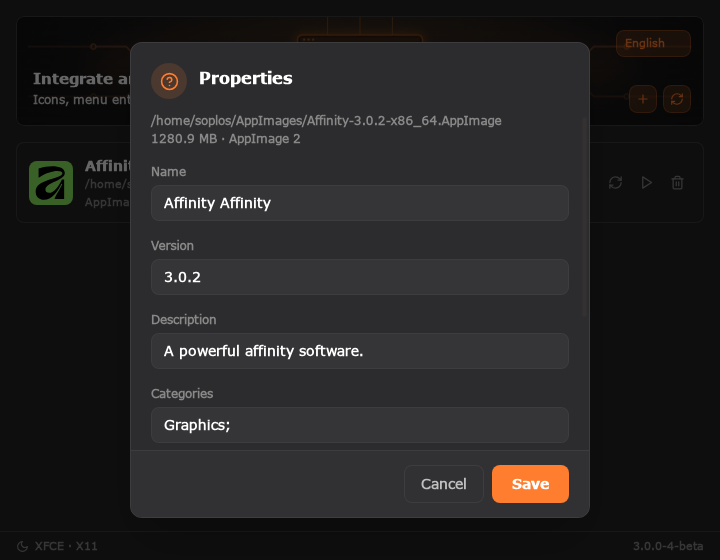
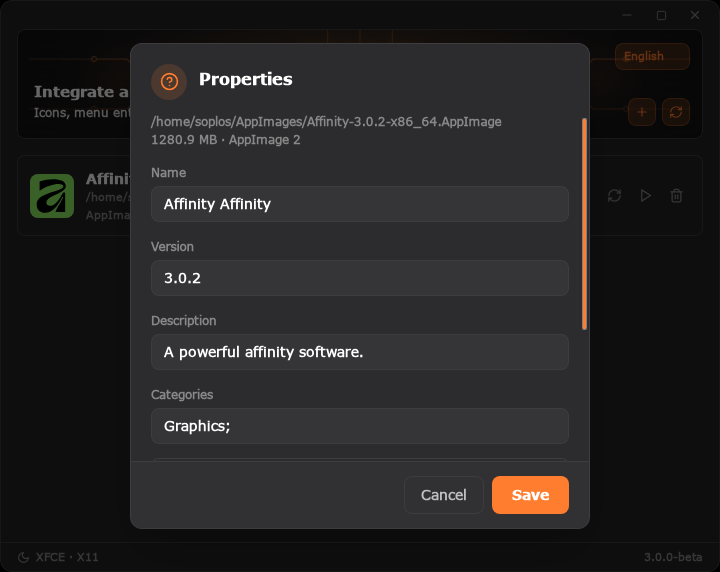
Frameless card window, new screenshots and bump to 3.0.0-5-beta

diff --git a/src/App.svelte b/src/App.svelte
@@ -1,6 +1,8 @@
 <script lang="ts">
   import { onMount, onDestroy } from "svelte";
   import { _, locale } from "svelte-i18n";
+  import WindowControls from "./components/WindowControls.svelte";
+  import { frameless, maximized } from "./lib/window";
   import { getVersion } from "@tauri-apps/api/app";
   import { getCurrentWindow } from "@tauri-apps/api/window";
   import { listen, type UnlistenFn } from "@tauri-apps/api/event";
@@ -34,6 +36,9 @@
 
   let envInfo = { desktopEnvironment: "unknown", displayProtocol: "unknown" };
   let appVersion = "";
+  // "3.0.0-1-beta" → "3.0.0-beta": the footer shows the app version, not the
+  // Debian package revision.
+  $: cleanVersion = appVersion.replace(/-\d+-/, "-");
   let unlistenChanged: UnlistenFn | null = null;
   let unlistenDragDrop: UnlistenFn | null = null;
 
@@ -189,14 +194,21 @@
 
 <svelte:window on:keydown={handleKeydown} />
 
-<div class="relative flex flex-col h-screen overflow-hidden">
+<div class="h-screen bg-dark {$frameless && !$maximized ? 'window-card' : ''}">
+<div class="relative flex flex-col h-full overflow-hidden">
   {#if isDraggingOver}
     <div class="absolute inset-0 z-40 border-2 border-dashed border-primary bg-primary/10 flex items-center justify-center pointer-events-none">
       <p class="text-[0.95rem] font-semibold text-primary">{$_("appimage.dropHint")}</p>
     </div>
   {/if}
 
-  <div class="p-4 pb-0 shrink-0">
+  {#if $frameless}
+    <div class="relative h-7 shrink-0" data-tauri-drag-region>
+      <div class="absolute right-2 top-[3px]"><WindowControls /></div>
+    </div>
+  {/if}
+
+  <div class="p-4 pb-0 shrink-0 {$frameless ? 'pt-0' : ''}" data-tauri-drag-region="deep">
     <div
       class="relative rounded border border-border overflow-hidden flex flex-col items-start justify-end p-4 min-h-[110px]"
       style="background: linear-gradient(rgba(20, 20, 22, 0.25), rgba(20, 20, 22, 0.82)), url('/assets/hero/appimage-manager-background.jpg'); background-size: cover; background-position: center;"
@@ -269,7 +281,7 @@
       on:click={() => (aboutOpen = true)}
       title={$_("sidebar.aboutTooltip")}
     >
-      {appVersion}
+      {cleanVersion}
     </button>
   </footer>
 </div>
@@ -367,3 +379,4 @@
     </div>
   </div>
 {/if}
+</div>

diff --git a/src/components/WindowControls.svelte b/src/components/WindowControls.svelte
@@ -1,0 +1,40 @@
+<script lang="ts">
+  import { getCurrentWindow } from "@tauri-apps/api/window";
+  import { _ } from "svelte-i18n";
+  import { Minus, Square, Copy, X } from "lucide-svelte";
+  import { maximized } from "../lib/window";
+
+  // The buttons of the window when the system draws no frame: minimize, maximize
+  // or restore, and close, at the top right of the card. They are plain icons;
+  // the accent of the theme shows under the pointer, and red only on close.
+  const win = getCurrentWindow();
+
+  const button = "grid h-[22px] w-8 place-items-center rounded text-text-muted transition-colors";
+</script>
+
+<div class="flex items-center gap-0.5">
+  <button
+    class="{button} hover:bg-primary/15 hover:text-primary"
+    title={$_("app.window.minimize")}
+    aria-label={$_("app.window.minimize")}
+    on:click={() => win.minimize()}
+  >
+    <Minus size={14} />
+  </button>
+  <button
+    class="{button} hover:bg-primary/15 hover:text-primary"
+    title={$maximized ? $_("app.window.restore") : $_("app.window.maximize")}
+    aria-label={$maximized ? $_("app.window.restore") : $_("app.window.maximize")}
+    on:click={() => win.toggleMaximize()}
+  >
+    {#if $maximized}<Copy size={11} />{:else}<Square size={11} />{/if}
+  </button>
+  <button
+    class="{button} hover:bg-danger hover:text-white"
+    title={$_("app.window.close")}
+    aria-label={$_("app.window.close")}
+    on:click={() => win.close()}
+  >
+    <X size={14} />
+  </button>
+</div>

diff --git a/src/lib/window.ts b/src/lib/window.ts
@@ -1,0 +1,21 @@
+import { writable } from "svelte/store";
+import { getCurrentWindow } from "@tauri-apps/api/window";
+
+// Whether the system draws a frame around the window. With `decorations` off in
+// tauri.conf.json it does not: the window is one card with rounded corners (the
+// .window-card rule of global.css) and the program shows its own window buttons
+// (WindowControls.svelte). With it on, none of that shows.
+export const frameless = writable(false);
+export const maximized = writable(false);
+
+(async () => {
+  try {
+    const win = getCurrentWindow();
+    if (await win.isDecorated()) return;
+    frameless.set(true);
+    maximized.set(await win.isMaximized());
+    await win.onResized(async () => maximized.set(await win.isMaximized()));
+  } catch {
+    // Not inside Tauri (a browser while developing): leave the window as it is.
+  }
+})();

diff --git a/src/styles/global.css b/src/styles/global.css
@@ -37,12 +37,24 @@
 
   body {
     font-family: "Segoe UI", Tahoma, Geneva, Verdana, sans-serif;
-    background: theme("colors.dark");
+    /* The background is the one of the window card (App.svelte): the body stays
+       transparent so the corners of a window with no frame can be rounded. */
+    background: transparent;
     color: theme("colors.text.DEFAULT");
     height: 100vh;
     margin: 0;
     overflow: hidden;
   }
+}
+
+/*
+ * The window when the system draws no frame: one card with rounded corners.
+ * clip-path also cuts the dialogs (position: fixed), which overflow does not.
+ */
+.window-card {
+  border-radius: 12px;
+  border: 1px solid rgb(var(--color-border));
+  clip-path: inset(0 round 12px);
 }
 
 .content-scroll {

diff --git a/CHANGELOG.md b/CHANGELOG.md
@@ -2,6 +2,12 @@
 
 All notable changes to Soplos AppImage Manager are documented in this file.
 
+## [3.0.0-5-beta] - 2026-10-29
+
+### Changed
+
+- The window no longer has the frame of the system: it is a card with rounded corners and its own minimize, maximize and close buttons at the top right. It can be moved from the top strip, the banner and the side bar, and double click on the strip maximizes it. The rounded corners need a compositing manager running, as the one of Xfce, Plasma or GNOME.
+
 ## [3.0.0-4-beta] - 2026-10-28
 
 ### Changed

diff --git a/README.md b/README.md
@@ -1,6 +1,6 @@
 # Soplos AppImage Manager 3.0
 
-![Version](https://img.shields.io/badge/version-3.0.0--4--beta-blue)
+![Version](https://img.shields.io/badge/version-3.0.0--5--beta-blue)
 ![License](https://img.shields.io/badge/license-GPL--3.0--or--later-green)
 ![Platform](https://img.shields.io/badge/platform-Linux-lightgrey)
 ![Tauri](https://img.shields.io/badge/Tauri-2-orange)
